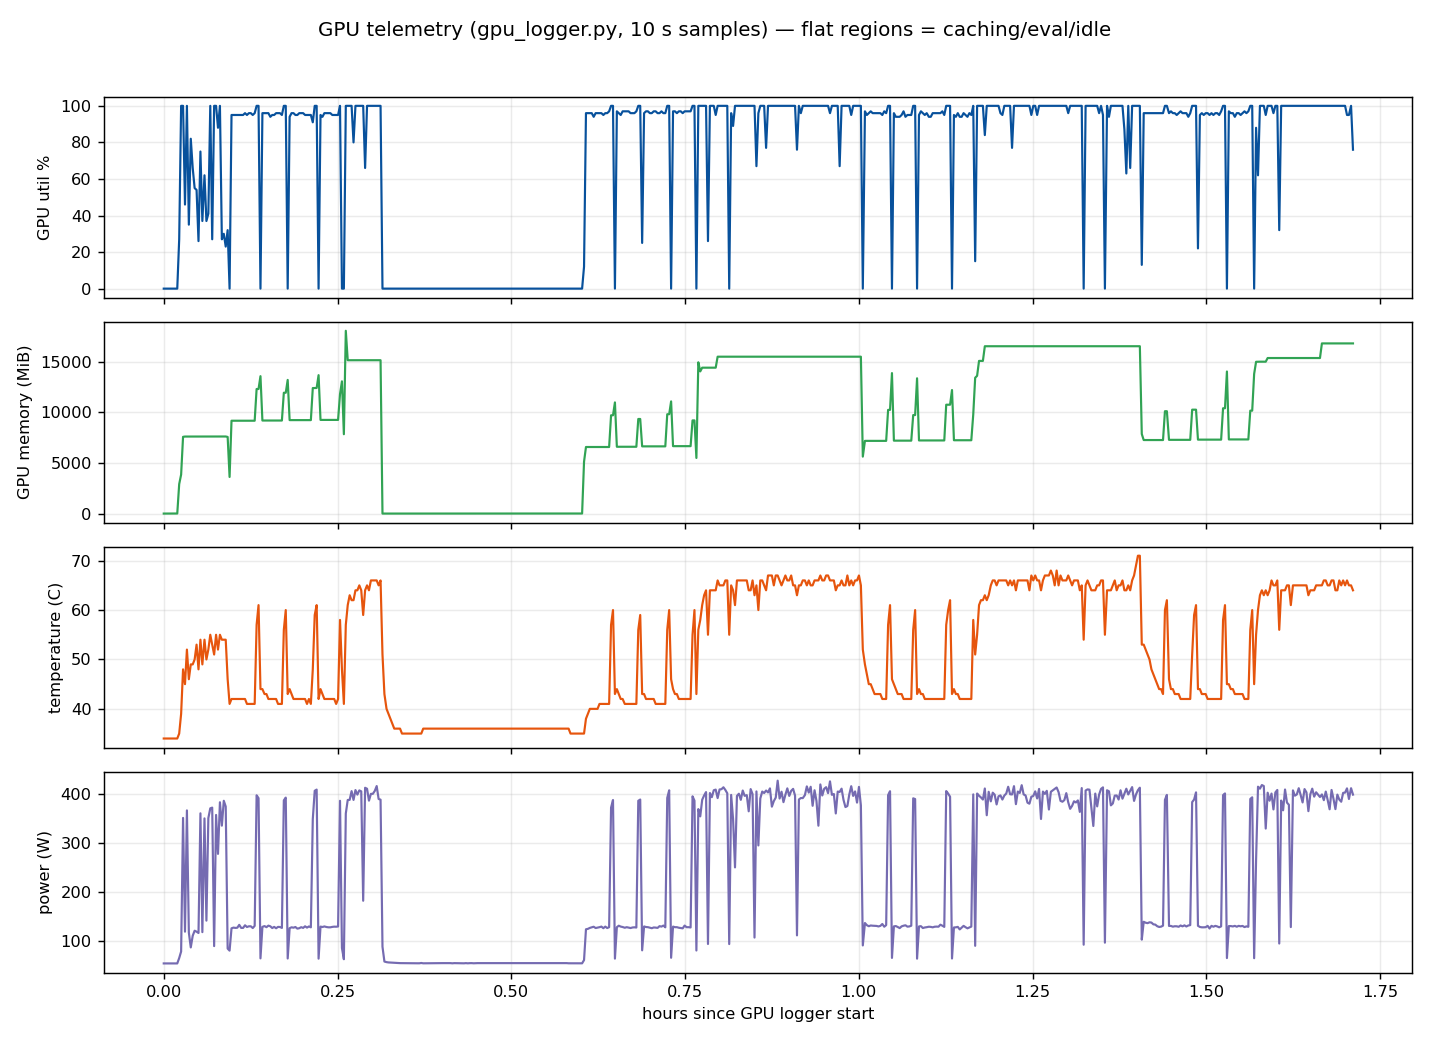
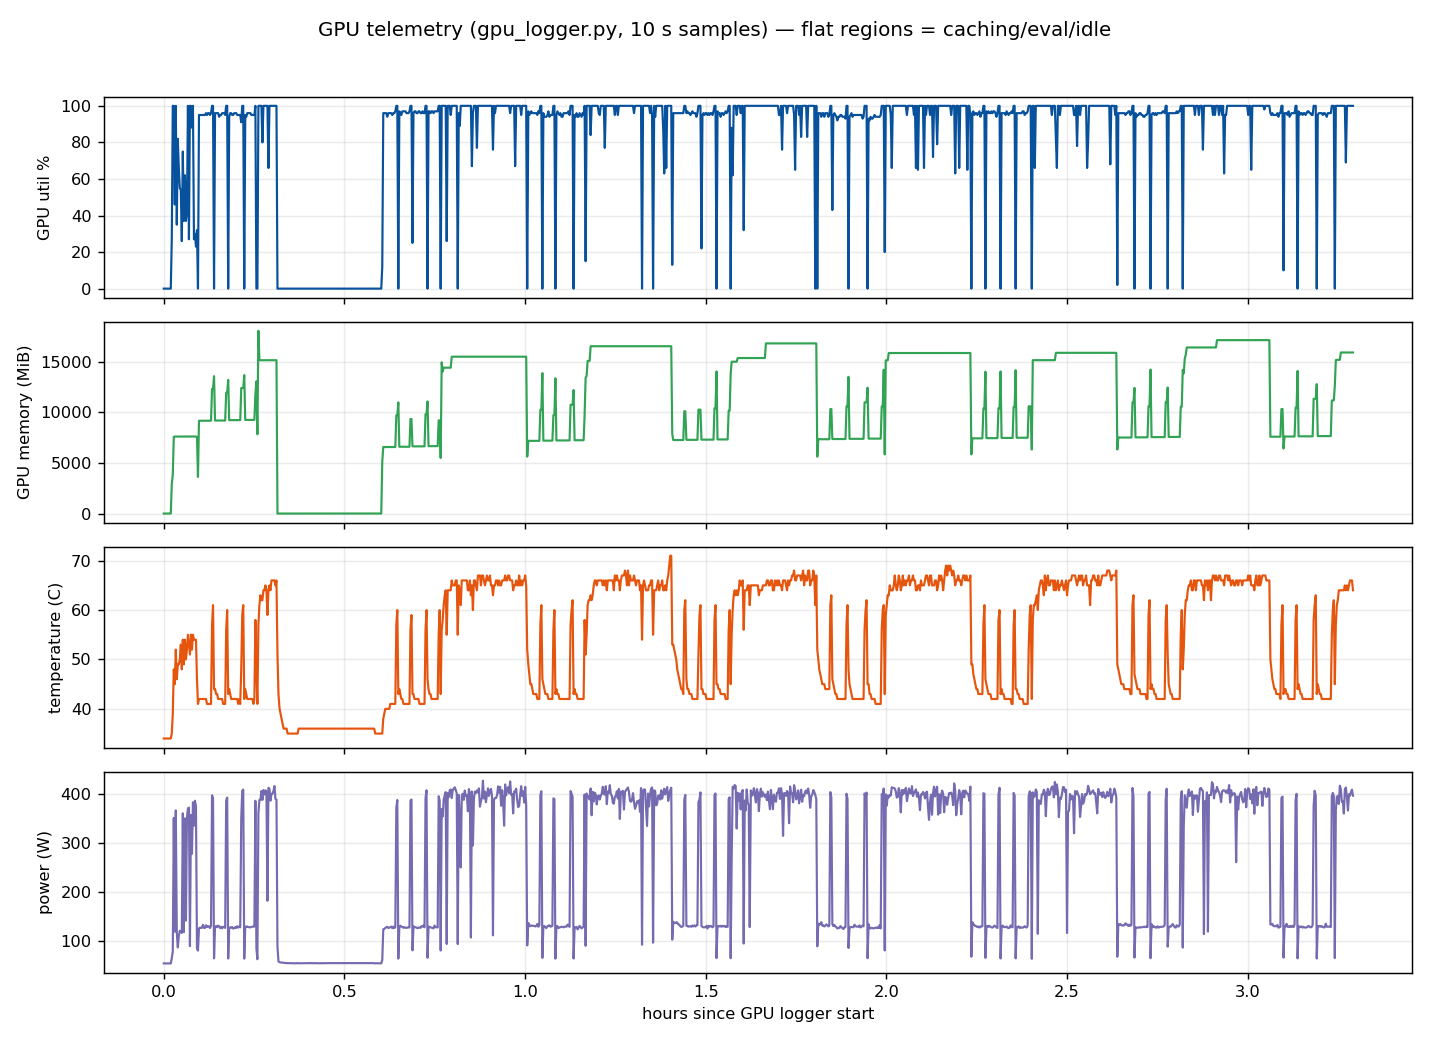
TRAINING_ANALYSIS: v2 live snapshot at step 1551/3000 (51.7%)
Regenerated plots + full per-100 table through step 1551. Median 3.40 s/step,
16.7 GB peak, loss/loss first-50 6.23 -> last-50 5.20, ar_ce 5.19 -> 4.04,
ar_kl 0.39 -> 1.28 and still rising (now above v1's same-step, no plateau).

diff --git a/TRAINING_ANALYSIS/ANALYSIS.md b/TRAINING_ANALYSIS/ANALYSIS.md
@@ -1,6 +1,6 @@
 # Training analysis — `akbar_arabic_rock_lora` (v2, lyric-conditioned captions)
 
-> **IN PROGRESS — live snapshot at 2026-09-20 08:26 UTC, step ~652 / 3000 (21.7%).**
+> **IN PROGRESS — live snapshot at 2026-09-20 10:00 UTC, step ~1551 / 3000 (51.7%).**
 > The run is still training. Numbers below are current, not final; this file is
 > regenerated/updated as the run proceeds and finalized at step 3000. Charts are
 > regenerated from the live `loss_log.db` and `gpu_usage.csv` with:
@@ -8,6 +8,8 @@
 > ```bash
 > python TRAINING_ANALYSIS/generate_plots.py
 > ```
+> (Note: the script's "recent rate"/ETA line can be distorted downward by a
+> sample pause inside its last-100 window — use the median below, not that line.)
 
 > This is **training loss only**. There is no held-out validation split, so
 > quality must be judged from the generated samples too — loss alone can't tell
@@ -31,12 +33,13 @@
 | Model | YuE2 3B int8 `convrot8`, flowmatch, batch 1 |
 | Dataset | 267 clips, 267 **lyric-bearing** captions, one combined LoRA across four maqams |
 | GPU | Colab **A100-SXM4-80GB** |
-| Steps done | **~652 / 3000 (21.7%)** at snapshot |
-| Step time | **~3.3 s/step** (recent 100: 0.298 steps/s) |
-| Sample tax | 4 samples per event at `duration: 360`; **12 samples** so far (steps 0/250/500) |
-| ETA | **~2.2 h** at recent rate, plus sample events |
-| GPU | peak **16.4 GB** (16810 MiB), mean 12.3 GB of 80 GB; ~93% util, ~285 W mean (incl. sample pauses) |
-| Health | no tracebacks; loss descending cleanly |
+| Steps done | **~1551 / 3000 (51.7%)** at snapshot |
+| Step time | **median 3.40 s/step** (p10 2.80 / p90 4.00, excluding sample pauses) |
+| Sample tax | 4 samples per event at `duration: 360`, ~**10.5 min/event** (595–679 s gaps); **28 samples** so far (steps 0/250/…/1500) |
+| Checkpoints | 6 so far: `_000000250` … `_000001500`, on disk and in GCS |
+| ETA | **~2.4 h** remaining (~82 min of steps + ~63 min of 6 sample events) |
+| GPU | peak **16.7 GB** (17134 MiB), mean 12.4 GB of 80 GB; ~93% util, ~286 W mean (incl. sample pauses) |
+| Health | no tracebacks; loss descending cleanly; VRAM flat |
 
 ## Charts
 
@@ -56,16 +59,25 @@
 | 301–400 | 5.470 | 4.362 | 1.064 | 4.574 |
 | 401–500 | 5.414 | 4.288 | 1.105 | 4.509 |
 | 501–600 | 5.374 | 4.262 | 1.104 | 4.483 |
-| 601–700 * | 5.373 | 4.259 | 1.154 | 4.490 |
+| 601–700 | 5.339 | 4.227 | 1.160 | 4.459 |
+| 701–800 | 5.353 | 4.215 | 1.161 | 4.447 |
+| 801–900 | 5.326 | 4.172 | 1.177 | 4.407 |
+| 901–1000 | 5.274 | 4.153 | 1.194 | 4.392 |
+| 1001–1100 | 5.280 | 4.138 | 1.198 | 4.378 |
+| 1101–1200 | 5.231 | 4.093 | 1.225 | 4.338 |
+| 1201–1300 | 5.261 | 4.108 | 1.230 | 4.354 |
+| 1301–1400 | 5.198 | 4.048 | 1.261 | 4.300 |
+| 1401–1500 | 5.198 | 4.054 | 1.251 | 4.304 |
+| 1501–1600 * | 5.203 | 4.041 | 1.281 | 4.298 |
 
-\* partial window (to ~step 652 at snapshot).
+\* partial window (to ~step 1551 at snapshot).
 
 Confirmed metric keys: `additional_model_loss`, `learning_rate`, `loss/ar_ce`,
 `loss/ar_kl`, `loss/loss`. There is **no** `nar_flow` key (see `DECISIONS.md`).
 
-First-50 vs last-50 (step ~652): `loss/loss` 6.23 → 5.36 (**−0.86**),
-`loss/ar_ce` 5.19 → 4.26 (−0.93), `loss/ar_kl` 0.39 → 1.16 (**+0.77**),
-`additional_model_loss` 5.26 → 4.49 (−0.77).
+First-50 vs last-50 (step ~1551): `loss/loss` 6.23 → 5.20 (**−1.03**),
+`loss/ar_ce` 5.19 → 4.04 (−1.15), `loss/ar_kl` 0.39 → 1.28 (**+0.90**),
+`additional_model_loss` 5.26 → 4.29 (−0.97).
 
 ## v2 vs v1 at the same step (not apples-to-apples — read the caveat)
 
@@ -73,8 +85,10 @@ First-50 vs last-50 (step ~652): `loss/loss` 6.23 → 5.36 (**−0.86**),
 |---|---|---|---|---|
 | v1 1–100 | 6.287 | 5.227 | 0.579 | 5.343 |
 | **v2 1–100** | **6.015** | **4.942** | 0.588 | **5.060** |
-| v1 601–700 | 5.726 | 4.604 | 1.050 | 4.814 |
-| **v2 601–700** | **5.373** | **4.259** | 1.154 | **4.490** |
+| v1 1401–1500 | 5.536 | 4.409 | 1.194 | 4.648 |
+| **v2 1401–1500** | **5.198** | **4.054** | 1.251 | **4.304** |
+| v1 1501–1600 | 5.509 | 4.372 | 1.215 | 4.615 |
+| **v2 1501–1600** | **5.203** | **4.041** | 1.281 | **4.298** |
 
 **Caveat:** the audio targets are identical, but v2's prompts now contain the
 lyrics, so the AR has the actual words to predict from. A lower `loss/ar_ce` is
@@ -84,25 +98,31 @@ lyric signal is reaching the AR (the v1 failure was that it never did).
 
 ## Observations / flags
 
-1. **Healthy descent, no errors.** `loss/loss` fell steeply over the first ~100
-   steps then declined steadily; no tracebacks, no loss spikes beyond normal
-   batch-1 noise, VRAM flat (never climbing).
-2. **The lyric signal is present.** `loss/ar_ce` is ~0.35 lower than v1's at the
-   same step (4.26 vs 4.60 by 601–700), consistent with the AR now conditioning
-   on real lyrics instead of style tags alone.
-3. **`loss/ar_kl` — the one to watch.** It rose 0.39 → 1.16 by step ~652 (+0.77).
-   At this point it is slightly *above* v1's same-step value (1.05), and v1's
-   pattern was a brief plateau near ~1.2 around steps 900–1300, then a continued
-   rise to 1.50 by step 3000. **Bounded drift, not a blow-up — but not plateaued
-   either.** If it keeps climbing past ~1.3–1.5 with no flattening, that is the
-   first lever for a v3 (fewer steps / lower LR / lower `ar_kl_weight`), one
-   variable at a time.
-4. **Throughput/VRAM as expected.** ~3.3 s/step and ~16.4 GB peak on the A100 —
-   in line with v1's whole-song run; sample events add the usual pauses
-   (visible as spikes in `04_throughput.png`).
-5. **Sample quality is the real test.** 12 samples so far (steps 0/250/500) with
-   held-out lyrics; the point of this run is that checkpoints can now *show*
-   pronunciation. Listen for lyric fidelity + arrangement coherence, not loss.
+1. **Healthy and still descending.** `loss/loss` fell steeply over the first
+   ~100 steps then declined steadily; at the last window it is ~5.20. No
+   tracebacks, no loss spikes beyond batch-1 noise, VRAM flat (never climbing).
+2. **The lyric signal is present and stable.** `loss/ar_ce` sits ~0.33 lower
+   than v1's at the same step (4.04 vs 4.37 by 1501–1600) — consistent with the
+   AR conditioning on real lyrics rather than style tags alone.
+3. **`loss/ar_kl` — the one to watch, and it has not plateaued.** It rose
+   0.39 → 1.28 (+0.90) and is now *above* v1's same-step (1.19–1.22). v1 briefly
+   paused near ~1.2 around steps 900–1300, then resumed to 1.50 by step 3000; v2
+   has shown no such pause and is ahead of that curve. **Bounded drift, not a
+   blow-up — but the trend is up.** If it keeps climbing past ~1.3–1.5 to the
+   end, that is the first lever for a v3 (fewer steps / lower LR / lower
+   `ar_kl_weight`), one variable at a time.
+4. **Throughput/VRAM as expected.** Median 3.40 s/step, ~16.7 GB peak; each
+   `duration: 360` sample event pauses training ~10.5 min (visible as spikes in
+   `04_throughput.png`) — the ETA in `generate_plots.py`'s summary line can read
+   too pessimistic if a sample pause falls in its last-100 window.
+5. **Sample quality is the real test.** 28 samples so far (steps 0/250/…/1500)
+   with held-out lyrics; the point of this run is that checkpoints can now
+   *show* pronunciation. Listen for lyric fidelity + arrangement coherence, not
+   loss.
+6. **Ops note (not analysis):** `backup_to_gcp.py` uses append-only `gsutil
+   rsync`, so 4 stale smoke-test step-0 samples remain in the run's GCS
+   `output/samples/` (see `agent_notes/current.md` for the cleanup command).
+   Harmless to training; only matters for counting/baseline in the final eval.
 
 ## Next steps
 
